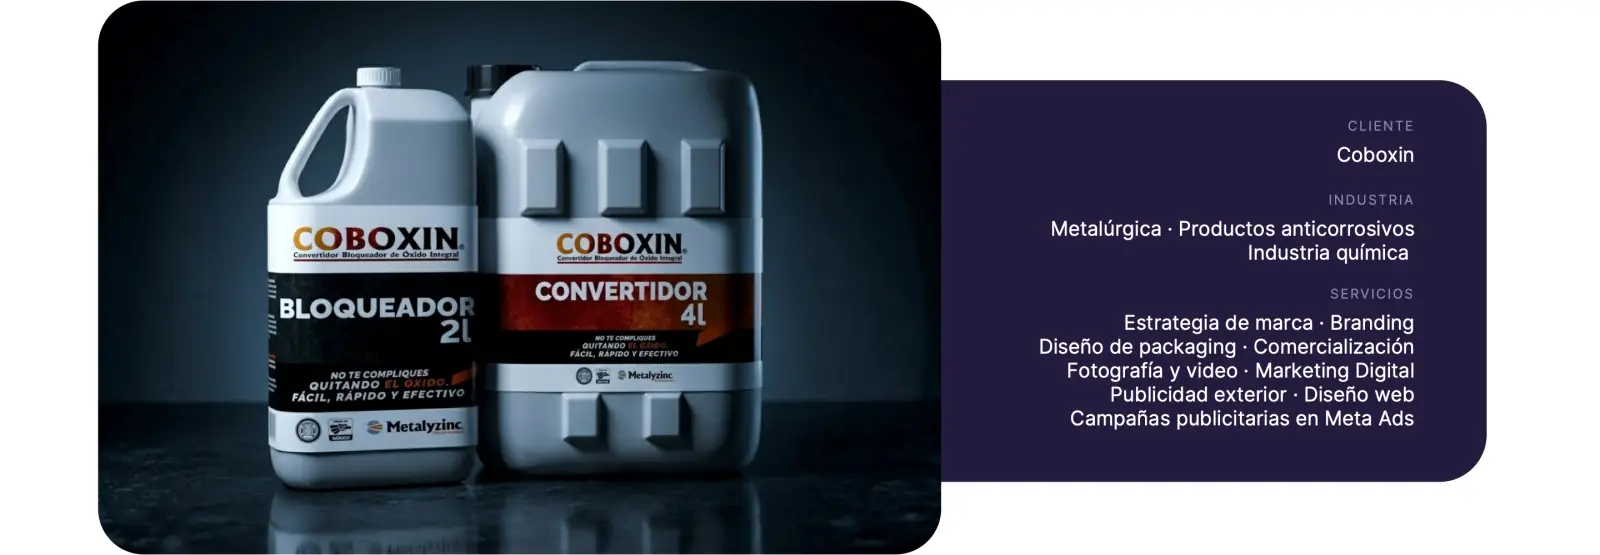
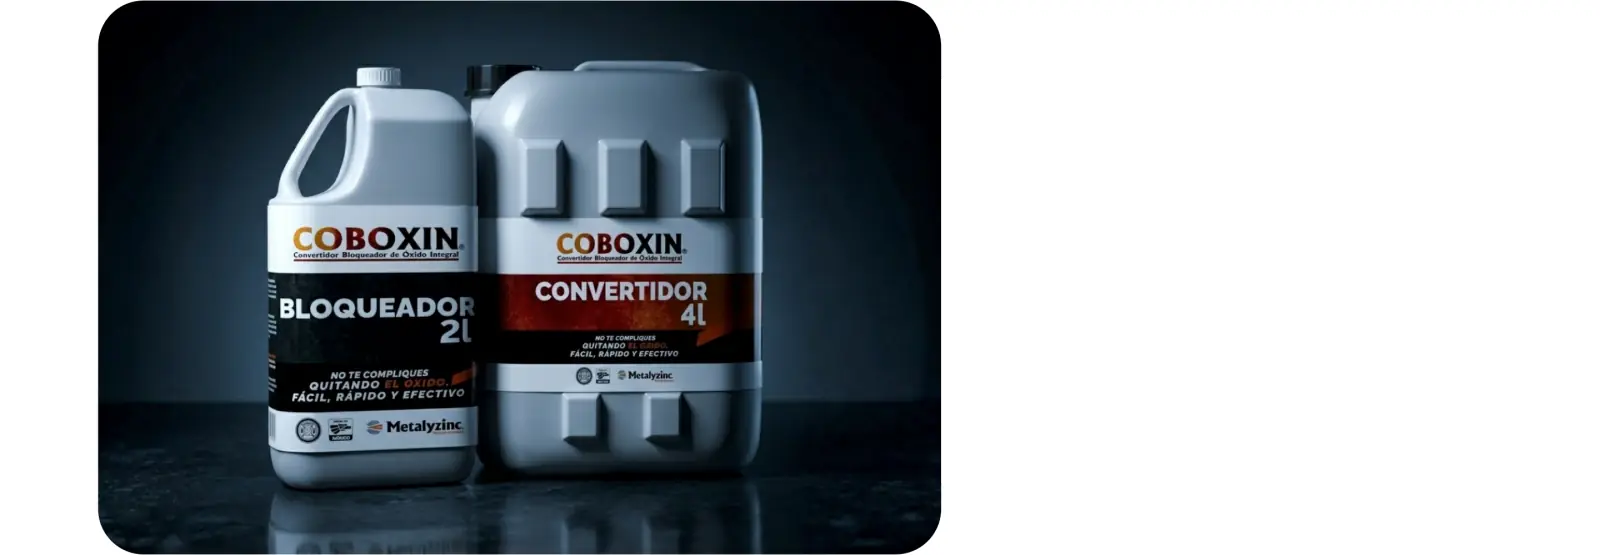
Proyectos: ficha del cliente como texto (fuera de las imágenes), cada caso separado en imagen principal y galería, y galería de Aeternum a todo el ancho en pantallas grandes

Changed region(s): [[0.5625, 0.1225, 0.9375, 0.8883]]

diff --git a/js/proyectos.js b/js/proyectos.js
@@ -8,12 +8,12 @@
 (() => {
   const P = 'assets/proyectos/';
   // tint: color del resplandor dentro de la tarjeta · at: posición del resplandor · w: ancho del logo (px a 1440)
-  // shot: [archivo, alto] de la composición del caso (1600 px de ancho) · bg: fondo del caso en el PDF
+  // hero/gallery: [archivo, alto] (1600 px de ancho) · card.box: posición de la ficha del cliente en % del hero (izq, arriba, ancho, alto) · bg: fondo del caso
   const PROJECTS = [
     { slug: 'coboxin', name: 'Coboxin', tall: true, w: 420, tint: '#1aa7a1', at: '100% 100%', col: 1,
       services: ['Estrategia de marca', 'Branding', 'Diseño de packaging', 'Comercialización', 'Fotografía y video', 'Marketing Digital', 'Publicidad exterior', 'Diseño web', 'Campañas publicitarias en Meta Ads'],
       industry: 'Metalúrgica · Productos anticorrosivos<br>Industria química',
-      hero: ['coboxin-hero.webp', 555], gallery: ['coboxin-gallery.webp', 624], wide: ['coboxin-wide.webp', 600],
+      hero: ['coboxin-hero.webp', 555], card: { box: [58.819, 14.83, 34.097, 72.144], client: 'Coboxin', industry: 'Metalúrgica · Productos anticorrosivos<br>Industria química', services: 'Estrategia de marca · Branding<br>Diseño de packaging · Comercialización<br>Fotografía y video · Marketing Digital<br>Publicidad exterior · Diseño web<br>Campañas publicitarias en Meta Ads' }, gallery: ['coboxin-gallery.webp', 624], wide: ['coboxin-wide.webp', 600],
       challenge: '<b>COBOXIN</b> necesitaba algo más que una nueva imagen: <em>requería una estrategia</em> que le permitiera ingresar al mercado con una propuesta sólida y diferenciada.',
       challengeText: 'Desde la investigación del sector y el análisis de competidores hasta el desarrollo del empaque, la comunicación y los materiales comerciales, construimos una marca preparada para conectar con distribuidores y clientes desde su lanzamiento.',
       processLabel: 'El proceso',
@@ -25,7 +25,7 @@
     { slug: 'metalyzinc', name: 'Metalyzinc', w: 290, tint: '#c98b2a', at: '100% 0%', col: 2,
       services: ['Consultoría estratégica', 'Diagnóstico de marca', 'Identificación de oportunidades de crecimiento', 'Estrategia de negocio', 'Consultoría comercial', 'Marketing estratégico', 'Marketing Digital', 'Papelería corporativa'],
       industry: 'Metalúrgica · Productos anticorrosivos<br>Industria química',
-      hero: ['metalyzinc-hero.webp', 555], gallery: ['metalyzinc-gallery.webp', 445], wide: ['metalyzinc-wide.webp', 530],
+      hero: ['metalyzinc-hero.webp', 555], card: { box: [59.097, 14.629, 34.097, 72.144], client: 'Metalyzinc', industry: 'Metalúrgica · Productos anticorrosivos<br>Industria química', services: 'Consultoría estratégica · Diagnóstico de<br>marca · Identificación de oportunidades de<br>crecimiento · Estrategia de negocio<br>Consultoría comercial · Marketing estratégico<br>· Marketing Digital · Papelería corporativa' }, gallery: ['metalyzinc-gallery.webp', 445], wide: ['metalyzinc-wide.webp', 530],
       challengeLead: 'A pesar de contar con una amplia trayectoria y liderazgo técnico en el sector anticorrosivo,',
       challenge: 'Metalyzinc buscaba fortalecer su posicionamiento comercial e identificar nuevas oportunidades de crecimiento.',
       processLabel: 'El desafío consistió en:',
@@ -33,37 +33,37 @@
       result: 'Una estrategia con visión de largo plazo que permitió establecer prioridades, fortalecer el posicionamiento de la empresa y orientar sus siguientes etapas de crecimiento.' },
     { slug: 'yeimetz', name: 'Yeimetz', w: 220, tint: '#2c6f9a', at: '0% 100%', col: 1,
       services: ['Estrategia digital', 'Diseño y desarrollo web', 'Contenido web', 'SEO y SEM'],
-      industry: 'Ingeniería · Construcción<br>Infraestructura industrial', shot: ['yeimetz-caso.webp', 1658] },
+      industry: 'Ingeniería · Construcción<br>Infraestructura industrial', hero: ['yeimetz-hero.webp', 879], gallery: ['yeimetz-galeria.webp', 779], card: { box: [58.611, 20.48, 34.444, 45.512], client: 'Yeimetz', industry: 'Ingeniería · Construcción<br>Infraestructura industrial', services: 'Estrategia digital · Diseño y desarrollo web<br>Contenido web · SEO y SEM' } },
     { slug: 'sperta', name: 'Sperta', fullName: 'SPERTA Dental Care Center®', tall: true, w: 200, tint: '#a3316a', at: '100% 100%', col: 2,
       services: ['Estrategia digital', 'Diseño y desarrollo web', 'Contenido web', 'SEO y SEM', 'Fotografía y video', 'Dirección estratégica de redes sociales (Facebook e Instagram)', 'Estrategia de campañas en Meta Ads'],
-      industry: 'Salud · Clínica Dental<br>Servicios odontológicos', shot: ['sperta-caso.webp', 2737] },
+      industry: 'Salud · Clínica Dental<br>Servicios odontológicos', hero: ['sperta-hero.webp', 594], gallery: ['sperta-galeria.webp', 2144], card: { box: [59.306, 17.978, 34.028, 67.416], client: 'SPERTA Dental Care Center®', industry: 'Salud · Clínica Dental<br>Servicios odontológicos', services: 'Estrategia digital · Diseño y desarrollo web<br>· Contenido web · SEO y SEM · Fotografía y<br>video · Dirección estratégica de redes<br>sociales (Facebook e Instagram)<br>Estrategia de campañas en Meta Ads' } },
     { slug: 'afp-courts', name: 'AFP Courts', fullName: 'AFP Courts México', tall: true, w: 180, tint: '#b08a2e', at: '0% 0%', col: 1,
       services: ['Estrategia digital', 'Maquetación web', 'Diseño y desarrollo web', 'Contenido web', 'SEO y SEM', 'Estrategia publicitaria en Google Ads'],
-      industry: 'Infraestructura deportiva · Construcción de canchas de Pádel · Ingeniería deportiva', shot: ['afp-courts-caso.webp', 2180] },
+      industry: 'Infraestructura deportiva · Construcción de canchas de Pádel · Ingeniería deportiva', hero: ['afp-courts-hero.webp', 714], gallery: ['afp-courts-galeria.webp', 1467], card: { box: [55.139, 22.586, 37.917, 56.075], client: 'AFP Courts México', industry: 'Infraestructura deportiva · Construcción<br>de canchas de Pádel · Ingeniería deportiva', services: 'Estrategia digital · Maquetación web · Diseño<br>y desarrollo web · Contenido web · SEO y<br>SEM · Estrategia publicitaria en Google Ads' } },
     { slug: 'dagsa', name: 'Dagsa Logistics', w: 215, tint: '#2a86a8', at: '0% 0%', col: 2, bg: '#ededed', flush: true,
       services: ['Estrategia digital', 'Maquetación web', 'Diseño y desarrollo web', 'Contenido web', 'SEO', 'Papelería corporativa'],
-      industry: 'Logística · Cadena de suministro<br>Comercio exterior', shot: ['dagsa-caso.webp', 1429] },
-    { slug: 'aeternum', name: 'Aeternum', w: 270, tint: '#a3316a', at: '100% 100%', col: 1,
+      industry: 'Logística · Cadena de suministro<br>Comercio exterior', hero: ['dagsa-hero.webp', 637], gallery: ['dagsa-galeria.webp', 793], card: { box: [61.111, 19.546, 32.083, 62.827], client: 'Dagsa Logistics', industry: 'Logística · Cadena de suministro<br>Comercio exterior', services: 'Estrategia digital · Maquetación web<br>Diseño y desarrollo web · Contenido web<br>SEO · Papelería corporativa' } },
+    { slug: 'aeternum', name: 'Aeternum', fullBleed: true, w: 270, tint: '#a3316a', at: '100% 100%', col: 1,
       services: ['Estrategia digital', 'Maquetación web', 'Diseño y desarrollo web', 'Contenido web', 'SEO y SEM', 'Dirección estratégica de redes sociales (Facebook e Instagram)', 'Estrategia de campañas en Meta Ads'],
-      industry: 'Tecnología Financiera · Blockchain · Criptomonedas', shot: ['aeternum-caso.webp', 2166] },
+      industry: 'Tecnología Financiera · Blockchain · Criptomonedas', hero: ['aeternum-hero.webp', 943], gallery: ['aeternum-galeria.webp', 1224], card: { box: [50.139, 18.986, 42.917, 42.453], client: 'Aeternum', industry: 'Tecnología Financiera · Blockchain · Criptomonedas', services: 'Estrategia digital · Maquetación web · Diseño y<br>desarrollo web · Contenido web · SEO y SEM<br>Dirección estratégica de redes sociales (Facebook<br>e Instagram) · Estrategia de campañas en Meta Ads' } },
     { slug: 'soli-deo-gloria', name: 'Soli Deo Gloria', tall: true, w: 360, tint: '#6c4bb3', at: '100% 100%', col: 2,
       services: ['Estrategia digital', 'Diseño y desarrollo web', 'Contenido web', 'Fotografía y video', 'SEO y SEM', 'Estrategia publicitaria en Google Ads', 'Diseño de artes publicitarios'],
-      industry: 'Construcción · Ventanas y Puertas de PVC', shot: ['soli-deo-gloria-caso.webp', 1954] },
+      industry: 'Construcción · Ventanas y Puertas de PVC', hero: ['soli-deo-gloria-hero.webp', 1954], card: { box: [51.389, 9.613, 41.597, 20.364], client: 'SOLI·DEO GLORIA', industry: 'Construcción · Ventanas y Puertas de PVC', services: 'Estrategia digital · Diseño y desarrollo<br>web · Contenido web · Fotografía y video<br>SEO y SEM · Estrategia publicitaria en<br>Google Ads · Diseño de artes publicitarios' } },
     { slug: 'private-chef-playa', name: 'Private Chef Playa', tall: true, w: 180, tint: '#1aa7a1', at: '0% 100%', col: 1,
       services: ['Dirección estratégica de redes sociales (Facebook e Instagram)', 'Estrategia de contenido', 'Diseño de contenido', 'Community management', 'Campañas en Meta Ads'],
-      industry: 'Gastronomía · Turismo', shot: ['private-chef-playa-caso.webp', 2586] },
+      industry: 'Gastronomía · Turismo', hero: ['private-chef-playa-hero.webp', 2586], card: { box: [58.194, 9.411, 34.861, 15.471], client: 'Private Chef Playa', industry: 'Gastronomía · Turismo', services: 'Dirección estratégica de redes sociales<br>(Facebook e Instagram) · Estrategia de<br>contenido · Diseño de contenido · Community<br>management · Campañas en Meta Ads' } },
     { slug: 'vitanova', name: 'Vitanova', fullName: 'Vitanova Center Tires', w: 210, tint: '#b08a2e', at: '100% 0%', col: 2, flush: true,
       services: ['Estrategia publicitaria en Meta Ads (Facebook e Instagram)', 'Campañas en Google Ads', 'Diseño de artes publicitarios', 'Dirección estratégica de redes sociales (Facebook, Instagram)'],
-      industry: 'Automotriz', shot: ['vitanova-caso.webp', 2695] },
+      industry: 'Automotriz', hero: ['vitanova-hero.webp', 1537], gallery: ['vitanova-galeria.webp', 1158], card: { box: [41.528, 8.098, 51.389, 22.56], client: 'Vitanova Center Tires', industry: 'Automotriz', services: 'Estrategia publicitaria en Meta Ads (Facebook e Instagram)<br>Campañas en Google Ads · Diseño de artes publicitarios<br>Dirección estratégica de redes sociales (Facebook, Instagram)' } },
     { slug: 'toxre', name: 'Tox&Re', w: 300, tint: '#6c4bb3', at: '100% 100%', col: 1, flush: true,
       services: ['Estrategia publicitaria en Meta Ads (Facebook e Instagram)', 'Campañas en Google Ads', 'Diseño de artes publicitarios', 'Dirección estratégica de redes sociales (Facebook e Instagram)', 'Producción fotográfica y audiovisual'],
-      industry: 'Medicina Estética', shot: ['toxre-caso.webp', 1859] },
+      industry: 'Medicina Estética', hero: ['toxre-hero.webp', 789], gallery: ['toxre-galeria.webp', 1070], card: { box: [50.417, 18.592, 42.5, 50.704], client: 'Tox&amp;Re', industry: 'Medicina Estética', services: 'Estrategia publicitaria en Meta Ads (Facebook e<br>Instagram) · Campañas en Google Ads · Diseño<br>de artes publicitarios · Dirección estratégica de<br>redes sociales (Facebook e Instagram) ·<br>Producción fotográfica y audiovisual' } },
     { slug: 'steakos', name: 'Steakos', tall: true, w: 170, tint: '#a3316a', at: '100% 100%', col: 2, flush: true,
       services: ['Dirección estratégica de redes sociales (Facebook, Instagram y TikTok)', 'Producción fotográfica y audiovisual', 'Diseño de contenido', 'Gestión de campañas Meta Ads y Amazon Ads', 'Community management'],
-      industry: 'Alimentos · Snacks Premium', shot: ['steakos-caso.webp', 1589] },
+      industry: 'Alimentos · Snacks Premium', hero: ['steakos-hero.webp', 1589], card: { box: [53.611, 11.119, 38.889, 25.175], client: 'Steakos', industry: 'Alimentos · Snacks Premium', services: 'Dirección estratégica de redes sociales<br>(Facebook, Instagram y TikTok) · Producción<br>fotográfica y audiovisual · Diseño de contenido<br>Gestión de campañas Meta Ads y Amazon Ads<br>Community management' } },
     { slug: 'etp', name: 'ETP', w: 200, tint: '#1aa7a1', at: '100% 100%', col: 1, bg: '#f8f8f8', flush: true,
       services: ['Estrategia digital', 'Maquetación, diseño y desarrollo web', 'Contenido web', 'SEO'],
-      industry: 'Transporte y logística', shot: ['etp-caso.webp', 2535] },
+      industry: 'Transporte y logística', hero: ['etp-hero.webp', 721], gallery: ['etp-galeria.webp', 1814], card: { box: [45.139, 19.877, 47.778, 55.778], client: 'ETP', industry: 'Transporte y logística', services: 'Estrategia digital • Maquetación, diseño y<br>desarrollo web • Contenido web • SEO' } },
   ];
 
   const grid = document.getElementById('pj-grid'), detail = document.getElementById('pj-detail');
@@ -89,12 +89,29 @@
   // composición del PDF a todo lo ancho (1440 px máx.)
   const shot = (p, [file, h], cls = '') => `
     <figure class="pj-shot ${cls}"><img src="${P}${file}" width="1600" height="${h}" alt="${p.fullName || p.name}: proyecto de Boreal" decoding="async"></figure>`;
-  // ficha del cliente: en escritorio ya está dentro de la imagen, así que esta solo se ve en celular
+  // imagen principal con la ficha del cliente en HTML, en el mismo lugar que en el PDF (detrás de la imagen,
+  // que tiene ese hueco transparente, para que objetos como el autobús o el celular queden por delante)
+  const heroFig = p => {
+    const [l, t, w, h] = p.card.box;
+    return `
+    <figure class="pj-hero2">
+      <div class="pj-card2" style="left:${l}%;top:${t}%;width:${w}%;height:${h}%">
+        <div class="pj-card2__txt">
+          <small>Cliente</small><p>${p.card.client}</p>
+          <small>Industria</small><p>${p.card.industry}</p>
+          <small>Servicios</small><p>${p.card.services}</p>
+        </div>
+      </div>
+      <img src="${P}${p.hero[0]}" width="1600" height="${p.hero[1]}" alt="${p.fullName || p.name}: proyecto de Boreal" decoding="async">
+    </figure>`;
+  };
+  // en celular la ficha se lee aparte, debajo de la imagen
+  const flat = t => t.replace(/<br>/g, ' ');
   const info = p => `
     <aside class="pj-info pj-info--m">
-      <small>Cliente</small><p>${p.fullName || p.name}</p>
-      <small>Industria</small><p>${p.industry}</p>
-      <small>Servicios</small><p>${p.services.join(' · ')}</p>
+      <small>Cliente</small><p>${p.card.client}</p>
+      <small>Industria</small><p>${flat(p.card.industry)}</p>
+      <small>Servicios</small><p>${flat(p.card.services)}</p>
     </aside>`;
   const upIcon = '<svg viewBox="0 0 24 24" fill="none" stroke="currentColor" stroke-width="2" stroke-linecap="round" stroke-linejoin="round"><path d="M12 19V5M6 11l6-6 6 6"/></svg>';
   const toTop = `<div class="container pj-totop-row"><button type="button" class="pj-totop-link" data-totop>${upIcon}<span>Volver al inicio del proyecto</span></button></div>`;
@@ -108,17 +125,18 @@
         </a>
       </div>`;
     let body;
-    if (p.shot) {
+    if (!p.process) {
       body = `
       <section class="pj-case pj-case--shot${p.flush ? ' pj-case--flush' : ''}" style="--case-bg:${p.bg || '#fff'}">
-        <div class="pj-anim">${shot(p, p.shot)}</div>
+        <div class="pj-anim">${heroFig(p)}</div>
         <div class="container">${info(p)}</div>
+        ${p.gallery ? `<div class="pj-anim">${shot(p, p.gallery, p.fullBleed ? 'pj-shot--full' : '')}</div>` : ''}
         ${p.flush ? '' : toTop}
       </section>`;
     } else {
       body = `
       <section class="pj-case pj-case--shot">
-        <div class="pj-anim">${shot(p, p.hero)}</div>
+        <div class="pj-anim">${heroFig(p)}</div>
         <div class="container">${info(p)}
           <div class="pj-reto pj-anim">
             <p class="pj-label">El reto</p>

diff --git a/css/styles.css b/css/styles.css
@@ -1329,3 +1329,12 @@ body.on-dark .header .nav a:hover,body.on-dark .header .nav a.active{color:#fff}
 @media (min-width:821px){.footer__cols .footer__brand .logo-svg{margin-right:calc(37px * -.453)}}
 /* Sesión Norte: los 4 números de "Lo que trabajamos en la sesión" con el mismo color que el 01 y el 02 */
 .incl .icard:nth-child(n) .icard__n{background:rgba(255,255,255,.1);color:var(--gold)}
+/* Proyectos: imagen principal + ficha del cliente en HTML (escala con el ancho de la imagen) */
+.pj-hero2{position:relative;margin:0 auto;max-width:1440px;container-type:inline-size}
+.pj-hero2 img{position:relative;z-index:1;display:block;width:100%;height:auto}
+.pj-card2{position:absolute;z-index:0;background:#241c3c;border-radius:2.1cqw;color:#fff;text-align:right;display:flex;justify-content:flex-end}
+.pj-card2__txt{padding:3.1cqw 4.4cqw 0 0;white-space:nowrap}
+.pj-card2 small{display:block;font:500 .76cqw/1 var(--body);letter-spacing:.2em;text-transform:uppercase;color:#a79fc4;margin-bottom:.75cqw}
+.pj-card2 p{margin:0 0 1.5cqw;font-size:1.18cqw;line-height:1.36}
+.pj-shot--full{max-width:none}
+@media (max-width:820px){.pj-card2{display:none}}
